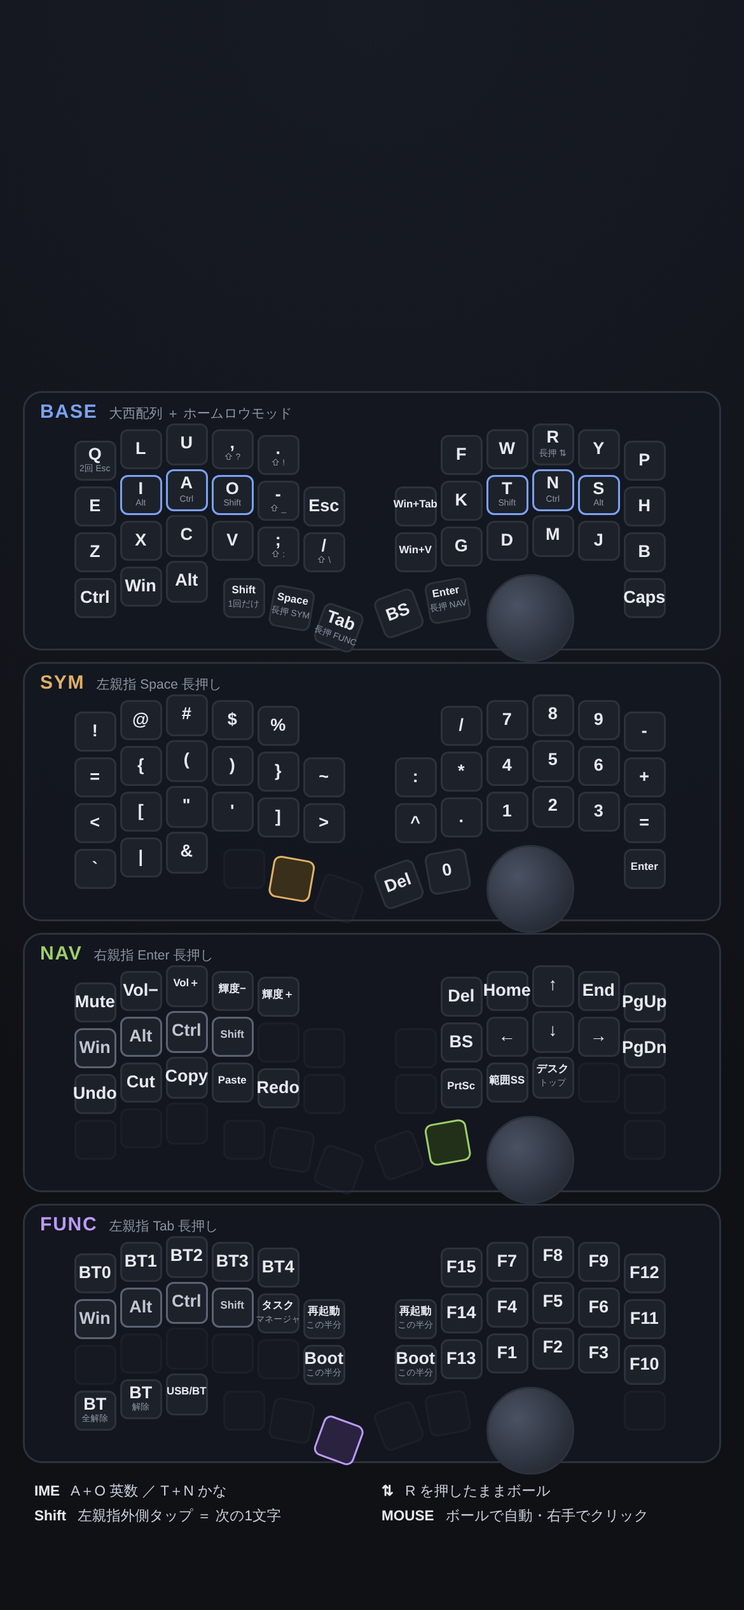
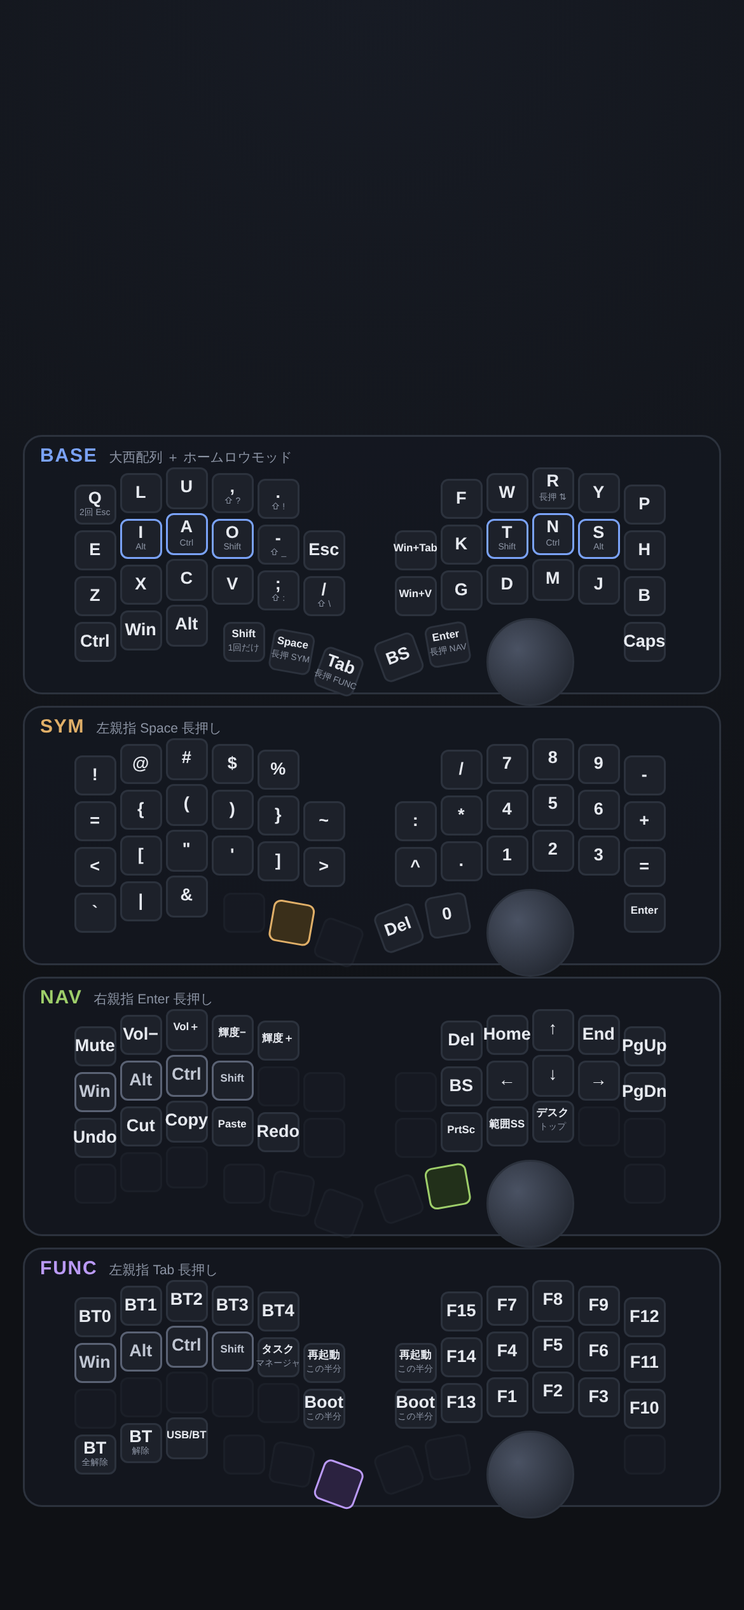
iPhone wallpaper: clear the lock-screen clock, drop the memo
Claude-Session: https://claude.ai/code/session_016pNXExXxrw2Y83Buhtq3ji

diff --git a/wallpaper/roBa-wallpaper-iphone12.html b/wallpaper/roBa-wallpaper-iphone12.html
@@ -1,7 +1,7 @@
 <!doctype html><html><head><meta charset="utf-8"><style>
 :root{--bg:#0f1115;--key:#1d212a;--line:#2c323d;--txt:#e6e9ef;--sub:#8b93a3;--base:#7aa2f7;--sym:#e0af68;--nav:#9ece6a;--func:#bb9af7;--mouse:#f7768e}
 *{box-sizing:border-box;margin:0} html{background:var(--bg)}
-body{width:390px;height:844px;overflow:hidden;background:radial-gradient(circle at 50% 0%,#171b24,var(--bg) 70%);color:var(--txt);font-family:"Noto Sans CJK JP","Noto Sans JP",sans-serif;display:flex;flex-direction:column;gap:6px;padding:205px 12px 34px}
+body{width:390px;height:844px;overflow:hidden;background:radial-gradient(circle at 50% 0%,#171b24,var(--bg) 70%);color:var(--txt);font-family:"Noto Sans CJK JP","Noto Sans JP",sans-serif;display:flex;flex-direction:column;gap:6px;padding:228px 12px 30px}
 .layer{background:#141820cc;border:1px solid var(--line);border-radius:10px;padding:5px 8px 4px;flex:none;display:flex;flex-direction:column}
 .layer .kb{margin:auto}
 h2{font-size:10px;letter-spacing:.06em;display:flex;align-items:baseline;gap:6px}
@@ -18,9 +18,4 @@ h2 small{font-size:7px;color:var(--sub);letter-spacing:0;font-weight:400}
 .ball{position:absolute;width:45.599999999999994px;height:45.599999999999994px;border-radius:50%;background:radial-gradient(circle at 35% 35%,#4a5263,#1b1f27);border:1px solid var(--line)}
 .legend{display:grid;grid-template-columns:1fr 1fr;gap:3px 10px;font-size:7.5px;color:#c9cfdb;padding:4px 6px}
 .legend b{color:var(--txt);margin-right:4px}
-</style></head><body><section class="layer base"><h2>BASE<small>大西配列 ＋ ホームロウモッド</small></h2><div class="kb"><div class="key" style="left:0.0px;top:8.879999999999999px;transform:rotate(0deg)"><span class="m">Q</span><span class="s">2回 Esc</span></div><div class="key" style="left:24.0px;top:2.88px;transform:rotate(0deg)"><span class="m">L</span></div><div class="key" style="left:48.0px;top:0.0px;transform:rotate(0deg)"><span class="m">U</span></div><div class="key" style="left:72.0px;top:2.88px;transform:rotate(0deg)"><span class="m">,</span><span class="s">⇧ ?</span></div><div class="key" style="left:96.0px;top:5.76px;transform:rotate(0deg)"><span class="m">.</span><span class="s">⇧ !</span></div><div class="key" style="left:192.0px;top:5.76px;transform:rotate(0deg)"><span class="m">F</span></div><div class="key" style="left:216.0px;top:2.88px;transform:rotate(0deg)"><span class="m">W</span></div><div class="key" style="left:240.0px;top:0.0px;transform:rotate(0deg)"><span class="m">R</span><span class="s">長押 ⇅</span></div><div class="key" style="left:264.0px;top:2.88px;transform:rotate(0deg)"><span class="m">Y</span></div><div class="key" style="left:288.0px;top:8.879999999999999px;transform:rotate(0deg)"><span class="m">P</span></div><div class="key" style="left:0.0px;top:32.88px;transform:rotate(0deg)"><span class="m">E</span></div><div class="key hrm" style="left:24.0px;top:26.880000000000003px;transform:rotate(0deg)"><span class="m">I</span><span class="s">Alt</span></div><div class="key hrm" style="left:48.0px;top:24.0px;transform:rotate(0deg)"><span class="m">A</span><span class="s">Ctrl</span></div><div class="key hrm" style="left:72.0px;top:26.880000000000003px;transform:rotate(0deg)"><span class="m">O</span><span class="s">Shift</span></div><div class="key" style="left:96.0px;top:29.759999999999998px;transform:rotate(0deg)"><span class="m">-</span><span class="s">⇧ _</span></div><div class="key" style="left:120.0px;top:32.88px;transform:rotate(0deg)"><span class="m">Esc</span></div><div class="key" style="left:168.0px;top:32.88px;transform:rotate(0deg)"><span class="m small">Win+Tab</span></div><div class="key" style="left:192.0px;top:29.759999999999998px;transform:rotate(0deg)"><span class="m">K</span></div><div class="key hrm" style="left:216.0px;top:26.880000000000003px;transform:rotate(0deg)"><span class="m">T</span><span class="s">Shift</span></div><div class="key hrm" style="left:240.0px;top:24.0px;transform:rotate(0deg)"><span class="m">N</span><span class="s">Ctrl</span></div><div class="key hrm" style="left:264.0px;top:26.880000000000003px;transform:rotate(0deg)"><span class="m">S</span><span class="s">Alt</span></div><div class="key" style="left:288.0px;top:32.88px;transform:rotate(0deg)"><span class="m">H</span></div><div class="key" style="left:0.0px;top:56.88px;transform:rotate(0deg)"><span class="m">Z</span></div><div class="key" style="left:24.0px;top:50.88px;transform:rotate(0deg)"><span class="m">X</span></div><div class="key" style="left:48.0px;top:48.0px;transform:rotate(0deg)"><span class="m">C</span></div><div class="key" style="left:72.0px;top:50.88px;transform:rotate(0deg)"><span class="m">V</span></div><div class="key" style="left:96.0px;top:53.760000000000005px;transform:rotate(0deg)"><span class="m">;</span><span class="s">⇧ :</span></div><div class="key" style="left:120.0px;top:56.88px;transform:rotate(0deg)"><span class="m">/</span><span class="s">⇧ \</span></div><div class="key" style="left:168.0px;top:56.88px;transform:rotate(0deg)"><span class="m small">Win+V</span></div><div class="key" style="left:192.0px;top:53.760000000000005px;transform:rotate(0deg)"><span class="m">G</span></div><div class="key" style="left:216.0px;top:50.88px;transform:rotate(0deg)"><span class="m">D</span></div><div class="key" style="left:240.0px;top:48.0px;transform:rotate(0deg)"><span class="m">M</span></div><div class="key" style="left:264.0px;top:50.88px;transform:rotate(0deg)"><span class="m">J</span></div><div class="key" style="left:288.0px;top:56.88px;transform:rotate(0deg)"><span class="m">B</span></div><div class="key" style="left:0.0px;top:80.88px;transform:rotate(0deg)"><span class="m">Ctrl</span></div><div class="key" style="left:24.0px;top:74.88px;transform:rotate(0deg)"><span class="m">Win</span></div><div class="key" style="left:48.0px;top:72.0px;transform:rotate(0deg)"><span class="m">Alt</span></div><div class="key" style="left:78.0px;top:80.88px;transform:rotate(0deg)"><span class="m small">Shift</span><span class="s">1回だけ</span></div><div class="key" style="left:104.88px;top:84.0px;transform:rotate(10deg)"><span class="m small">Space</span><span class="s">長押 SYM</span></div><div class="key" style="left:132.0px;top:92.88px;transform:rotate(20deg)"><span class="m">Tab</span><span class="s">長押 FUNC</span></div><div class="key" style="left:156.0px;top:92.88px;transform:rotate(-20deg)"><span class="m">BS</span></div><div class="key" style="left:183.12px;top:84.0px;transform:rotate(-10deg)"><span class="m small">Enter</span><span class="s">長押 NAV</span></div><div class="key" style="left:288.0px;top:80.88px;transform:rotate(0deg)"><span class="m">Caps</span></div><div class="ball" style="left:216.0px;top:79.19999999999999px"></div></div></section><section class="layer sym"><h2>SYM<small>左親指 Space 長押し</small></h2><div class="kb"><div class="key" style="left:0.0px;top:8.879999999999999px;transform:rotate(0deg)"><span class="m">!</span></div><div class="key" style="left:24.0px;top:2.88px;transform:rotate(0deg)"><span class="m">@</span></div><div class="key" style="left:48.0px;top:0.0px;transform:rotate(0deg)"><span class="m">#</span></div><div class="key" style="left:72.0px;top:2.88px;transform:rotate(0deg)"><span class="m">$</span></div><div class="key" style="left:96.0px;top:5.76px;transform:rotate(0deg)"><span class="m">%</span></div><div class="key" style="left:192.0px;top:5.76px;transform:rotate(0deg)"><span class="m">/</span></div><div class="key" style="left:216.0px;top:2.88px;transform:rotate(0deg)"><span class="m">7</span></div><div class="key" style="left:240.0px;top:0.0px;transform:rotate(0deg)"><span class="m">8</span></div><div class="key" style="left:264.0px;top:2.88px;transform:rotate(0deg)"><span class="m">9</span></div><div class="key" style="left:288.0px;top:8.879999999999999px;transform:rotate(0deg)"><span class="m">-</span></div><div class="key" style="left:0.0px;top:32.88px;transform:rotate(0deg)"><span class="m">=</span></div><div class="key" style="left:24.0px;top:26.880000000000003px;transform:rotate(0deg)"><span class="m">{</span></div><div class="key" style="left:48.0px;top:24.0px;transform:rotate(0deg)"><span class="m">(</span></div><div class="key" style="left:72.0px;top:26.880000000000003px;transform:rotate(0deg)"><span class="m">)</span></div><div class="key" style="left:96.0px;top:29.759999999999998px;transform:rotate(0deg)"><span class="m">}</span></div><div class="key" style="left:120.0px;top:32.88px;transform:rotate(0deg)"><span class="m">~</span></div><div class="key" style="left:168.0px;top:32.88px;transform:rotate(0deg)"><span class="m">:</span></div><div class="key" style="left:192.0px;top:29.759999999999998px;transform:rotate(0deg)"><span class="m">*</span></div><div class="key" style="left:216.0px;top:26.880000000000003px;transform:rotate(0deg)"><span class="m">4</span></div><div class="key" style="left:240.0px;top:24.0px;transform:rotate(0deg)"><span class="m">5</span></div><div class="key" style="left:264.0px;top:26.880000000000003px;transform:rotate(0deg)"><span class="m">6</span></div><div class="key" style="left:288.0px;top:32.88px;transform:rotate(0deg)"><span class="m">+</span></div><div class="key" style="left:0.0px;top:56.88px;transform:rotate(0deg)"><span class="m">&lt;</span></div><div class="key" style="left:24.0px;top:50.88px;transform:rotate(0deg)"><span class="m">[</span></div><div class="key" style="left:48.0px;top:48.0px;transform:rotate(0deg)"><span class="m">&quot;</span></div><div class="key" style="left:72.0px;top:50.88px;transform:rotate(0deg)"><span class="m">&#x27;</span></div><div class="key" style="left:96.0px;top:53.760000000000005px;transform:rotate(0deg)"><span class="m">]</span></div><div class="key" style="left:120.0px;top:56.88px;transform:rotate(0deg)"><span class="m">&gt;</span></div><div class="key" style="left:168.0px;top:56.88px;transform:rotate(0deg)"><span class="m">^</span></div><div class="key" style="left:192.0px;top:53.760000000000005px;transform:rotate(0deg)"><span class="m">.</span></div><div class="key" style="left:216.0px;top:50.88px;transform:rotate(0deg)"><span class="m">1</span></div><div class="key" style="left:240.0px;top:48.0px;transform:rotate(0deg)"><span class="m">2</span></div><div class="key" style="left:264.0px;top:50.88px;transform:rotate(0deg)"><span class="m">3</span></div><div class="key" style="left:288.0px;top:56.88px;transform:rotate(0deg)"><span class="m">=</span></div><div class="key" style="left:0.0px;top:80.88px;transform:rotate(0deg)"><span class="m">`</span></div><div class="key" style="left:24.0px;top:74.88px;transform:rotate(0deg)"><span class="m">|</span></div><div class="key" style="left:48.0px;top:72.0px;transform:rotate(0deg)"><span class="m">&amp;</span></div><div class="key empty" style="left:78.0px;top:80.88px;transform:rotate(0deg)"><span class="m"></span></div><div class="key held" style="left:104.88px;top:84.0px;transform:rotate(10deg)"><span class="m"></span></div><div class="key empty" style="left:132.0px;top:92.88px;transform:rotate(20deg)"><span class="m"></span></div><div class="key" style="left:156.0px;top:92.88px;transform:rotate(-20deg)"><span class="m">Del</span></div><div class="key" style="left:183.12px;top:84.0px;transform:rotate(-10deg)"><span class="m">0</span></div><div class="key" style="left:288.0px;top:80.88px;transform:rotate(0deg)"><span class="m small">Enter</span></div><div class="ball" style="left:216.0px;top:79.19999999999999px"></div></div></section><section class="layer nav"><h2>NAV<small>右親指 Enter 長押し</small></h2><div class="kb"><div class="key" style="left:0.0px;top:8.879999999999999px;transform:rotate(0deg)"><span class="m">Mute</span></div><div class="key" style="left:24.0px;top:2.88px;transform:rotate(0deg)"><span class="m">Vol−</span></div><div class="key" style="left:48.0px;top:0.0px;transform:rotate(0deg)"><span class="m small">Vol＋</span></div><div class="key" style="left:72.0px;top:2.88px;transform:rotate(0deg)"><span class="m small">輝度−</span></div><div class="key" style="left:96.0px;top:5.76px;transform:rotate(0deg)"><span class="m small">輝度＋</span></div><div class="key" style="left:192.0px;top:5.76px;transform:rotate(0deg)"><span class="m">Del</span></div><div class="key" style="left:216.0px;top:2.88px;transform:rotate(0deg)"><span class="m">Home</span></div><div class="key" style="left:240.0px;top:0.0px;transform:rotate(0deg)"><span class="m">↑</span></div><div class="key" style="left:264.0px;top:2.88px;transform:rotate(0deg)"><span class="m">End</span></div><div class="key" style="left:288.0px;top:8.879999999999999px;transform:rotate(0deg)"><span class="m">PgUp</span></div><div class="key mod" style="left:0.0px;top:32.88px;transform:rotate(0deg)"><span class="m">Win</span></div><div class="key mod" style="left:24.0px;top:26.880000000000003px;transform:rotate(0deg)"><span class="m">Alt</span></div><div class="key mod" style="left:48.0px;top:24.0px;transform:rotate(0deg)"><span class="m">Ctrl</span></div><div class="key mod" style="left:72.0px;top:26.880000000000003px;transform:rotate(0deg)"><span class="m small">Shift</span></div><div class="key empty" style="left:96.0px;top:29.759999999999998px;transform:rotate(0deg)"><span class="m"></span></div><div class="key empty" style="left:120.0px;top:32.88px;transform:rotate(0deg)"><span class="m"></span></div><div class="key empty" style="left:168.0px;top:32.88px;transform:rotate(0deg)"><span class="m"></span></div><div class="key" style="left:192.0px;top:29.759999999999998px;transform:rotate(0deg)"><span class="m">BS</span></div><div class="key" style="left:216.0px;top:26.880000000000003px;transform:rotate(0deg)"><span class="m">←</span></div><div class="key" style="left:240.0px;top:24.0px;transform:rotate(0deg)"><span class="m">↓</span></div><div class="key" style="left:264.0px;top:26.880000000000003px;transform:rotate(0deg)"><span class="m">→</span></div><div class="key" style="left:288.0px;top:32.88px;transform:rotate(0deg)"><span class="m">PgDn</span></div><div class="key" style="left:0.0px;top:56.88px;transform:rotate(0deg)"><span class="m">Undo</span></div><div class="key" style="left:24.0px;top:50.88px;transform:rotate(0deg)"><span class="m">Cut</span></div><div class="key" style="left:48.0px;top:48.0px;transform:rotate(0deg)"><span class="m">Copy</span></div><div class="key" style="left:72.0px;top:50.88px;transform:rotate(0deg)"><span class="m small">Paste</span></div><div class="key" style="left:96.0px;top:53.760000000000005px;transform:rotate(0deg)"><span class="m">Redo</span></div><div class="key empty" style="left:120.0px;top:56.88px;transform:rotate(0deg)"><span class="m"></span></div><div class="key empty" style="left:168.0px;top:56.88px;transform:rotate(0deg)"><span class="m"></span></div><div class="key" style="left:192.0px;top:53.760000000000005px;transform:rotate(0deg)"><span class="m small">PrtSc</span></div><div class="key" style="left:216.0px;top:50.88px;transform:rotate(0deg)"><span class="m small">範囲SS</span></div><div class="key" style="left:240.0px;top:48.0px;transform:rotate(0deg)"><span class="m small">デスク</span><span class="s">トップ</span></div><div class="key empty" style="left:264.0px;top:50.88px;transform:rotate(0deg)"><span class="m"></span></div><div class="key empty" style="left:288.0px;top:56.88px;transform:rotate(0deg)"><span class="m"></span></div><div class="key empty" style="left:0.0px;top:80.88px;transform:rotate(0deg)"><span class="m"></span></div><div class="key empty" style="left:24.0px;top:74.88px;transform:rotate(0deg)"><span class="m"></span></div><div class="key empty" style="left:48.0px;top:72.0px;transform:rotate(0deg)"><span class="m"></span></div><div class="key empty" style="left:78.0px;top:80.88px;transform:rotate(0deg)"><span class="m"></span></div><div class="key empty" style="left:104.88px;top:84.0px;transform:rotate(10deg)"><span class="m"></span></div><div class="key empty" style="left:132.0px;top:92.88px;transform:rotate(20deg)"><span class="m"></span></div><div class="key empty" style="left:156.0px;top:92.88px;transform:rotate(-20deg)"><span class="m"></span></div><div class="key held" style="left:183.12px;top:84.0px;transform:rotate(-10deg)"><span class="m"></span></div><div class="key empty" style="left:288.0px;top:80.88px;transform:rotate(0deg)"><span class="m"></span></div><div class="ball" style="left:216.0px;top:79.19999999999999px"></div></div></section><section class="layer func"><h2>FUNC<small>左親指 Tab 長押し</small></h2><div class="kb"><div class="key" style="left:0.0px;top:8.879999999999999px;transform:rotate(0deg)"><span class="m">BT0</span></div><div class="key" style="left:24.0px;top:2.88px;transform:rotate(0deg)"><span class="m">BT1</span></div><div class="key" style="left:48.0px;top:0.0px;transform:rotate(0deg)"><span class="m">BT2</span></div><div class="key" style="left:72.0px;top:2.88px;transform:rotate(0deg)"><span class="m">BT3</span></div><div class="key" style="left:96.0px;top:5.76px;transform:rotate(0deg)"><span class="m">BT4</span></div><div class="key" style="left:192.0px;top:5.76px;transform:rotate(0deg)"><span class="m">F15</span></div><div class="key" style="left:216.0px;top:2.88px;transform:rotate(0deg)"><span class="m">F7</span></div><div class="key" style="left:240.0px;top:0.0px;transform:rotate(0deg)"><span class="m">F8</span></div><div class="key" style="left:264.0px;top:2.88px;transform:rotate(0deg)"><span class="m">F9</span></div><div class="key" style="left:288.0px;top:8.879999999999999px;transform:rotate(0deg)"><span class="m">F12</span></div><div class="key mod" style="left:0.0px;top:32.88px;transform:rotate(0deg)"><span class="m">Win</span></div><div class="key mod" style="left:24.0px;top:26.880000000000003px;transform:rotate(0deg)"><span class="m">Alt</span></div><div class="key mod" style="left:48.0px;top:24.0px;transform:rotate(0deg)"><span class="m">Ctrl</span></div><div class="key mod" style="left:72.0px;top:26.880000000000003px;transform:rotate(0deg)"><span class="m small">Shift</span></div><div class="key" style="left:96.0px;top:29.759999999999998px;transform:rotate(0deg)"><span class="m small">タスク</span><span class="s">マネージャ</span></div><div class="key" style="left:120.0px;top:32.88px;transform:rotate(0deg)"><span class="m small">再起動</span><span class="s">この半分</span></div><div class="key" style="left:168.0px;top:32.88px;transform:rotate(0deg)"><span class="m small">再起動</span><span class="s">この半分</span></div><div class="key" style="left:192.0px;top:29.759999999999998px;transform:rotate(0deg)"><span class="m">F14</span></div><div class="key" style="left:216.0px;top:26.880000000000003px;transform:rotate(0deg)"><span class="m">F4</span></div><div class="key" style="left:240.0px;top:24.0px;transform:rotate(0deg)"><span class="m">F5</span></div><div class="key" style="left:264.0px;top:26.880000000000003px;transform:rotate(0deg)"><span class="m">F6</span></div><div class="key" style="left:288.0px;top:32.88px;transform:rotate(0deg)"><span class="m">F11</span></div><div class="key empty" style="left:0.0px;top:56.88px;transform:rotate(0deg)"><span class="m"></span></div><div class="key empty" style="left:24.0px;top:50.88px;transform:rotate(0deg)"><span class="m"></span></div><div class="key empty" style="left:48.0px;top:48.0px;transform:rotate(0deg)"><span class="m"></span></div><div class="key empty" style="left:72.0px;top:50.88px;transform:rotate(0deg)"><span class="m"></span></div><div class="key empty" style="left:96.0px;top:53.760000000000005px;transform:rotate(0deg)"><span class="m"></span></div><div class="key" style="left:120.0px;top:56.88px;transform:rotate(0deg)"><span class="m">Boot</span><span class="s">この半分</span></div><div class="key" style="left:168.0px;top:56.88px;transform:rotate(0deg)"><span class="m">Boot</span><span class="s">この半分</span></div><div class="key" style="left:192.0px;top:53.760000000000005px;transform:rotate(0deg)"><span class="m">F13</span></div><div class="key" style="left:216.0px;top:50.88px;transform:rotate(0deg)"><span class="m">F1</span></div><div class="key" style="left:240.0px;top:48.0px;transform:rotate(0deg)"><span class="m">F2</span></div><div class="key" style="left:264.0px;top:50.88px;transform:rotate(0deg)"><span class="m">F3</span></div><div class="key" style="left:288.0px;top:56.88px;transform:rotate(0deg)"><span class="m">F10</span></div><div class="key" style="left:0.0px;top:80.88px;transform:rotate(0deg)"><span class="m">BT</span><span class="s">全解除</span></div><div class="key" style="left:24.0px;top:74.88px;transform:rotate(0deg)"><span class="m">BT</span><span class="s">解除</span></div><div class="key" style="left:48.0px;top:72.0px;transform:rotate(0deg)"><span class="m small">USB/BT</span></div><div class="key empty" style="left:78.0px;top:80.88px;transform:rotate(0deg)"><span class="m"></span></div><div class="key empty" style="left:104.88px;top:84.0px;transform:rotate(10deg)"><span class="m"></span></div><div class="key held" style="left:132.0px;top:92.88px;transform:rotate(20deg)"><span class="m"></span></div><div class="key empty" style="left:156.0px;top:92.88px;transform:rotate(-20deg)"><span class="m"></span></div><div class="key empty" style="left:183.12px;top:84.0px;transform:rotate(-10deg)"><span class="m"></span></div><div class="key empty" style="left:288.0px;top:80.88px;transform:rotate(0deg)"><span class="m"></span></div><div class="ball" style="left:216.0px;top:79.19999999999999px"></div></div></section><section class="legend">
-<div><b>IME</b> A＋O 英数 ／ T＋N かな</div>
-<div><b>⇅</b> R を押したままボール</div>
-<div><b>Shift</b> 左親指外側タップ ＝ 次の1文字</div>
-<div><b>MOUSE</b> ボールで自動・右手でクリック</div>
-</section></body></html>
+</style></head><body><section class="layer base"><h2>BASE<small>大西配列 ＋ ホームロウモッド</small></h2><div class="kb"><div class="key" style="left:0.0px;top:8.879999999999999px;transform:rotate(0deg)"><span class="m">Q</span><span class="s">2回 Esc</span></div><div class="key" style="left:24.0px;top:2.88px;transform:rotate(0deg)"><span class="m">L</span></div><div class="key" style="left:48.0px;top:0.0px;transform:rotate(0deg)"><span class="m">U</span></div><div class="key" style="left:72.0px;top:2.88px;transform:rotate(0deg)"><span class="m">,</span><span class="s">⇧ ?</span></div><div class="key" style="left:96.0px;top:5.76px;transform:rotate(0deg)"><span class="m">.</span><span class="s">⇧ !</span></div><div class="key" style="left:192.0px;top:5.76px;transform:rotate(0deg)"><span class="m">F</span></div><div class="key" style="left:216.0px;top:2.88px;transform:rotate(0deg)"><span class="m">W</span></div><div class="key" style="left:240.0px;top:0.0px;transform:rotate(0deg)"><span class="m">R</span><span class="s">長押 ⇅</span></div><div class="key" style="left:264.0px;top:2.88px;transform:rotate(0deg)"><span class="m">Y</span></div><div class="key" style="left:288.0px;top:8.879999999999999px;transform:rotate(0deg)"><span class="m">P</span></div><div class="key" style="left:0.0px;top:32.88px;transform:rotate(0deg)"><span class="m">E</span></div><div class="key hrm" style="left:24.0px;top:26.880000000000003px;transform:rotate(0deg)"><span class="m">I</span><span class="s">Alt</span></div><div class="key hrm" style="left:48.0px;top:24.0px;transform:rotate(0deg)"><span class="m">A</span><span class="s">Ctrl</span></div><div class="key hrm" style="left:72.0px;top:26.880000000000003px;transform:rotate(0deg)"><span class="m">O</span><span class="s">Shift</span></div><div class="key" style="left:96.0px;top:29.759999999999998px;transform:rotate(0deg)"><span class="m">-</span><span class="s">⇧ _</span></div><div class="key" style="left:120.0px;top:32.88px;transform:rotate(0deg)"><span class="m">Esc</span></div><div class="key" style="left:168.0px;top:32.88px;transform:rotate(0deg)"><span class="m small">Win+Tab</span></div><div class="key" style="left:192.0px;top:29.759999999999998px;transform:rotate(0deg)"><span class="m">K</span></div><div class="key hrm" style="left:216.0px;top:26.880000000000003px;transform:rotate(0deg)"><span class="m">T</span><span class="s">Shift</span></div><div class="key hrm" style="left:240.0px;top:24.0px;transform:rotate(0deg)"><span class="m">N</span><span class="s">Ctrl</span></div><div class="key hrm" style="left:264.0px;top:26.880000000000003px;transform:rotate(0deg)"><span class="m">S</span><span class="s">Alt</span></div><div class="key" style="left:288.0px;top:32.88px;transform:rotate(0deg)"><span class="m">H</span></div><div class="key" style="left:0.0px;top:56.88px;transform:rotate(0deg)"><span class="m">Z</span></div><div class="key" style="left:24.0px;top:50.88px;transform:rotate(0deg)"><span class="m">X</span></div><div class="key" style="left:48.0px;top:48.0px;transform:rotate(0deg)"><span class="m">C</span></div><div class="key" style="left:72.0px;top:50.88px;transform:rotate(0deg)"><span class="m">V</span></div><div class="key" style="left:96.0px;top:53.760000000000005px;transform:rotate(0deg)"><span class="m">;</span><span class="s">⇧ :</span></div><div class="key" style="left:120.0px;top:56.88px;transform:rotate(0deg)"><span class="m">/</span><span class="s">⇧ \</span></div><div class="key" style="left:168.0px;top:56.88px;transform:rotate(0deg)"><span class="m small">Win+V</span></div><div class="key" style="left:192.0px;top:53.760000000000005px;transform:rotate(0deg)"><span class="m">G</span></div><div class="key" style="left:216.0px;top:50.88px;transform:rotate(0deg)"><span class="m">D</span></div><div class="key" style="left:240.0px;top:48.0px;transform:rotate(0deg)"><span class="m">M</span></div><div class="key" style="left:264.0px;top:50.88px;transform:rotate(0deg)"><span class="m">J</span></div><div class="key" style="left:288.0px;top:56.88px;transform:rotate(0deg)"><span class="m">B</span></div><div class="key" style="left:0.0px;top:80.88px;transform:rotate(0deg)"><span class="m">Ctrl</span></div><div class="key" style="left:24.0px;top:74.88px;transform:rotate(0deg)"><span class="m">Win</span></div><div class="key" style="left:48.0px;top:72.0px;transform:rotate(0deg)"><span class="m">Alt</span></div><div class="key" style="left:78.0px;top:80.88px;transform:rotate(0deg)"><span class="m small">Shift</span><span class="s">1回だけ</span></div><div class="key" style="left:104.88px;top:84.0px;transform:rotate(10deg)"><span class="m small">Space</span><span class="s">長押 SYM</span></div><div class="key" style="left:132.0px;top:92.88px;transform:rotate(20deg)"><span class="m">Tab</span><span class="s">長押 FUNC</span></div><div class="key" style="left:156.0px;top:92.88px;transform:rotate(-20deg)"><span class="m">BS</span></div><div class="key" style="left:183.12px;top:84.0px;transform:rotate(-10deg)"><span class="m small">Enter</span><span class="s">長押 NAV</span></div><div class="key" style="left:288.0px;top:80.88px;transform:rotate(0deg)"><span class="m">Caps</span></div><div class="ball" style="left:216.0px;top:79.19999999999999px"></div></div></section><section class="layer sym"><h2>SYM<small>左親指 Space 長押し</small></h2><div class="kb"><div class="key" style="left:0.0px;top:8.879999999999999px;transform:rotate(0deg)"><span class="m">!</span></div><div class="key" style="left:24.0px;top:2.88px;transform:rotate(0deg)"><span class="m">@</span></div><div class="key" style="left:48.0px;top:0.0px;transform:rotate(0deg)"><span class="m">#</span></div><div class="key" style="left:72.0px;top:2.88px;transform:rotate(0deg)"><span class="m">$</span></div><div class="key" style="left:96.0px;top:5.76px;transform:rotate(0deg)"><span class="m">%</span></div><div class="key" style="left:192.0px;top:5.76px;transform:rotate(0deg)"><span class="m">/</span></div><div class="key" style="left:216.0px;top:2.88px;transform:rotate(0deg)"><span class="m">7</span></div><div class="key" style="left:240.0px;top:0.0px;transform:rotate(0deg)"><span class="m">8</span></div><div class="key" style="left:264.0px;top:2.88px;transform:rotate(0deg)"><span class="m">9</span></div><div class="key" style="left:288.0px;top:8.879999999999999px;transform:rotate(0deg)"><span class="m">-</span></div><div class="key" style="left:0.0px;top:32.88px;transform:rotate(0deg)"><span class="m">=</span></div><div class="key" style="left:24.0px;top:26.880000000000003px;transform:rotate(0deg)"><span class="m">{</span></div><div class="key" style="left:48.0px;top:24.0px;transform:rotate(0deg)"><span class="m">(</span></div><div class="key" style="left:72.0px;top:26.880000000000003px;transform:rotate(0deg)"><span class="m">)</span></div><div class="key" style="left:96.0px;top:29.759999999999998px;transform:rotate(0deg)"><span class="m">}</span></div><div class="key" style="left:120.0px;top:32.88px;transform:rotate(0deg)"><span class="m">~</span></div><div class="key" style="left:168.0px;top:32.88px;transform:rotate(0deg)"><span class="m">:</span></div><div class="key" style="left:192.0px;top:29.759999999999998px;transform:rotate(0deg)"><span class="m">*</span></div><div class="key" style="left:216.0px;top:26.880000000000003px;transform:rotate(0deg)"><span class="m">4</span></div><div class="key" style="left:240.0px;top:24.0px;transform:rotate(0deg)"><span class="m">5</span></div><div class="key" style="left:264.0px;top:26.880000000000003px;transform:rotate(0deg)"><span class="m">6</span></div><div class="key" style="left:288.0px;top:32.88px;transform:rotate(0deg)"><span class="m">+</span></div><div class="key" style="left:0.0px;top:56.88px;transform:rotate(0deg)"><span class="m">&lt;</span></div><div class="key" style="left:24.0px;top:50.88px;transform:rotate(0deg)"><span class="m">[</span></div><div class="key" style="left:48.0px;top:48.0px;transform:rotate(0deg)"><span class="m">&quot;</span></div><div class="key" style="left:72.0px;top:50.88px;transform:rotate(0deg)"><span class="m">&#x27;</span></div><div class="key" style="left:96.0px;top:53.760000000000005px;transform:rotate(0deg)"><span class="m">]</span></div><div class="key" style="left:120.0px;top:56.88px;transform:rotate(0deg)"><span class="m">&gt;</span></div><div class="key" style="left:168.0px;top:56.88px;transform:rotate(0deg)"><span class="m">^</span></div><div class="key" style="left:192.0px;top:53.760000000000005px;transform:rotate(0deg)"><span class="m">.</span></div><div class="key" style="left:216.0px;top:50.88px;transform:rotate(0deg)"><span class="m">1</span></div><div class="key" style="left:240.0px;top:48.0px;transform:rotate(0deg)"><span class="m">2</span></div><div class="key" style="left:264.0px;top:50.88px;transform:rotate(0deg)"><span class="m">3</span></div><div class="key" style="left:288.0px;top:56.88px;transform:rotate(0deg)"><span class="m">=</span></div><div class="key" style="left:0.0px;top:80.88px;transform:rotate(0deg)"><span class="m">`</span></div><div class="key" style="left:24.0px;top:74.88px;transform:rotate(0deg)"><span class="m">|</span></div><div class="key" style="left:48.0px;top:72.0px;transform:rotate(0deg)"><span class="m">&amp;</span></div><div class="key empty" style="left:78.0px;top:80.88px;transform:rotate(0deg)"><span class="m"></span></div><div class="key held" style="left:104.88px;top:84.0px;transform:rotate(10deg)"><span class="m"></span></div><div class="key empty" style="left:132.0px;top:92.88px;transform:rotate(20deg)"><span class="m"></span></div><div class="key" style="left:156.0px;top:92.88px;transform:rotate(-20deg)"><span class="m">Del</span></div><div class="key" style="left:183.12px;top:84.0px;transform:rotate(-10deg)"><span class="m">0</span></div><div class="key" style="left:288.0px;top:80.88px;transform:rotate(0deg)"><span class="m small">Enter</span></div><div class="ball" style="left:216.0px;top:79.19999999999999px"></div></div></section><section class="layer nav"><h2>NAV<small>右親指 Enter 長押し</small></h2><div class="kb"><div class="key" style="left:0.0px;top:8.879999999999999px;transform:rotate(0deg)"><span class="m">Mute</span></div><div class="key" style="left:24.0px;top:2.88px;transform:rotate(0deg)"><span class="m">Vol−</span></div><div class="key" style="left:48.0px;top:0.0px;transform:rotate(0deg)"><span class="m small">Vol＋</span></div><div class="key" style="left:72.0px;top:2.88px;transform:rotate(0deg)"><span class="m small">輝度−</span></div><div class="key" style="left:96.0px;top:5.76px;transform:rotate(0deg)"><span class="m small">輝度＋</span></div><div class="key" style="left:192.0px;top:5.76px;transform:rotate(0deg)"><span class="m">Del</span></div><div class="key" style="left:216.0px;top:2.88px;transform:rotate(0deg)"><span class="m">Home</span></div><div class="key" style="left:240.0px;top:0.0px;transform:rotate(0deg)"><span class="m">↑</span></div><div class="key" style="left:264.0px;top:2.88px;transform:rotate(0deg)"><span class="m">End</span></div><div class="key" style="left:288.0px;top:8.879999999999999px;transform:rotate(0deg)"><span class="m">PgUp</span></div><div class="key mod" style="left:0.0px;top:32.88px;transform:rotate(0deg)"><span class="m">Win</span></div><div class="key mod" style="left:24.0px;top:26.880000000000003px;transform:rotate(0deg)"><span class="m">Alt</span></div><div class="key mod" style="left:48.0px;top:24.0px;transform:rotate(0deg)"><span class="m">Ctrl</span></div><div class="key mod" style="left:72.0px;top:26.880000000000003px;transform:rotate(0deg)"><span class="m small">Shift</span></div><div class="key empty" style="left:96.0px;top:29.759999999999998px;transform:rotate(0deg)"><span class="m"></span></div><div class="key empty" style="left:120.0px;top:32.88px;transform:rotate(0deg)"><span class="m"></span></div><div class="key empty" style="left:168.0px;top:32.88px;transform:rotate(0deg)"><span class="m"></span></div><div class="key" style="left:192.0px;top:29.759999999999998px;transform:rotate(0deg)"><span class="m">BS</span></div><div class="key" style="left:216.0px;top:26.880000000000003px;transform:rotate(0deg)"><span class="m">←</span></div><div class="key" style="left:240.0px;top:24.0px;transform:rotate(0deg)"><span class="m">↓</span></div><div class="key" style="left:264.0px;top:26.880000000000003px;transform:rotate(0deg)"><span class="m">→</span></div><div class="key" style="left:288.0px;top:32.88px;transform:rotate(0deg)"><span class="m">PgDn</span></div><div class="key" style="left:0.0px;top:56.88px;transform:rotate(0deg)"><span class="m">Undo</span></div><div class="key" style="left:24.0px;top:50.88px;transform:rotate(0deg)"><span class="m">Cut</span></div><div class="key" style="left:48.0px;top:48.0px;transform:rotate(0deg)"><span class="m">Copy</span></div><div class="key" style="left:72.0px;top:50.88px;transform:rotate(0deg)"><span class="m small">Paste</span></div><div class="key" style="left:96.0px;top:53.760000000000005px;transform:rotate(0deg)"><span class="m">Redo</span></div><div class="key empty" style="left:120.0px;top:56.88px;transform:rotate(0deg)"><span class="m"></span></div><div class="key empty" style="left:168.0px;top:56.88px;transform:rotate(0deg)"><span class="m"></span></div><div class="key" style="left:192.0px;top:53.760000000000005px;transform:rotate(0deg)"><span class="m small">PrtSc</span></div><div class="key" style="left:216.0px;top:50.88px;transform:rotate(0deg)"><span class="m small">範囲SS</span></div><div class="key" style="left:240.0px;top:48.0px;transform:rotate(0deg)"><span class="m small">デスク</span><span class="s">トップ</span></div><div class="key empty" style="left:264.0px;top:50.88px;transform:rotate(0deg)"><span class="m"></span></div><div class="key empty" style="left:288.0px;top:56.88px;transform:rotate(0deg)"><span class="m"></span></div><div class="key empty" style="left:0.0px;top:80.88px;transform:rotate(0deg)"><span class="m"></span></div><div class="key empty" style="left:24.0px;top:74.88px;transform:rotate(0deg)"><span class="m"></span></div><div class="key empty" style="left:48.0px;top:72.0px;transform:rotate(0deg)"><span class="m"></span></div><div class="key empty" style="left:78.0px;top:80.88px;transform:rotate(0deg)"><span class="m"></span></div><div class="key empty" style="left:104.88px;top:84.0px;transform:rotate(10deg)"><span class="m"></span></div><div class="key empty" style="left:132.0px;top:92.88px;transform:rotate(20deg)"><span class="m"></span></div><div class="key empty" style="left:156.0px;top:92.88px;transform:rotate(-20deg)"><span class="m"></span></div><div class="key held" style="left:183.12px;top:84.0px;transform:rotate(-10deg)"><span class="m"></span></div><div class="key empty" style="left:288.0px;top:80.88px;transform:rotate(0deg)"><span class="m"></span></div><div class="ball" style="left:216.0px;top:79.19999999999999px"></div></div></section><section class="layer func"><h2>FUNC<small>左親指 Tab 長押し</small></h2><div class="kb"><div class="key" style="left:0.0px;top:8.879999999999999px;transform:rotate(0deg)"><span class="m">BT0</span></div><div class="key" style="left:24.0px;top:2.88px;transform:rotate(0deg)"><span class="m">BT1</span></div><div class="key" style="left:48.0px;top:0.0px;transform:rotate(0deg)"><span class="m">BT2</span></div><div class="key" style="left:72.0px;top:2.88px;transform:rotate(0deg)"><span class="m">BT3</span></div><div class="key" style="left:96.0px;top:5.76px;transform:rotate(0deg)"><span class="m">BT4</span></div><div class="key" style="left:192.0px;top:5.76px;transform:rotate(0deg)"><span class="m">F15</span></div><div class="key" style="left:216.0px;top:2.88px;transform:rotate(0deg)"><span class="m">F7</span></div><div class="key" style="left:240.0px;top:0.0px;transform:rotate(0deg)"><span class="m">F8</span></div><div class="key" style="left:264.0px;top:2.88px;transform:rotate(0deg)"><span class="m">F9</span></div><div class="key" style="left:288.0px;top:8.879999999999999px;transform:rotate(0deg)"><span class="m">F12</span></div><div class="key mod" style="left:0.0px;top:32.88px;transform:rotate(0deg)"><span class="m">Win</span></div><div class="key mod" style="left:24.0px;top:26.880000000000003px;transform:rotate(0deg)"><span class="m">Alt</span></div><div class="key mod" style="left:48.0px;top:24.0px;transform:rotate(0deg)"><span class="m">Ctrl</span></div><div class="key mod" style="left:72.0px;top:26.880000000000003px;transform:rotate(0deg)"><span class="m small">Shift</span></div><div class="key" style="left:96.0px;top:29.759999999999998px;transform:rotate(0deg)"><span class="m small">タスク</span><span class="s">マネージャ</span></div><div class="key" style="left:120.0px;top:32.88px;transform:rotate(0deg)"><span class="m small">再起動</span><span class="s">この半分</span></div><div class="key" style="left:168.0px;top:32.88px;transform:rotate(0deg)"><span class="m small">再起動</span><span class="s">この半分</span></div><div class="key" style="left:192.0px;top:29.759999999999998px;transform:rotate(0deg)"><span class="m">F14</span></div><div class="key" style="left:216.0px;top:26.880000000000003px;transform:rotate(0deg)"><span class="m">F4</span></div><div class="key" style="left:240.0px;top:24.0px;transform:rotate(0deg)"><span class="m">F5</span></div><div class="key" style="left:264.0px;top:26.880000000000003px;transform:rotate(0deg)"><span class="m">F6</span></div><div class="key" style="left:288.0px;top:32.88px;transform:rotate(0deg)"><span class="m">F11</span></div><div class="key empty" style="left:0.0px;top:56.88px;transform:rotate(0deg)"><span class="m"></span></div><div class="key empty" style="left:24.0px;top:50.88px;transform:rotate(0deg)"><span class="m"></span></div><div class="key empty" style="left:48.0px;top:48.0px;transform:rotate(0deg)"><span class="m"></span></div><div class="key empty" style="left:72.0px;top:50.88px;transform:rotate(0deg)"><span class="m"></span></div><div class="key empty" style="left:96.0px;top:53.760000000000005px;transform:rotate(0deg)"><span class="m"></span></div><div class="key" style="left:120.0px;top:56.88px;transform:rotate(0deg)"><span class="m">Boot</span><span class="s">この半分</span></div><div class="key" style="left:168.0px;top:56.88px;transform:rotate(0deg)"><span class="m">Boot</span><span class="s">この半分</span></div><div class="key" style="left:192.0px;top:53.760000000000005px;transform:rotate(0deg)"><span class="m">F13</span></div><div class="key" style="left:216.0px;top:50.88px;transform:rotate(0deg)"><span class="m">F1</span></div><div class="key" style="left:240.0px;top:48.0px;transform:rotate(0deg)"><span class="m">F2</span></div><div class="key" style="left:264.0px;top:50.88px;transform:rotate(0deg)"><span class="m">F3</span></div><div class="key" style="left:288.0px;top:56.88px;transform:rotate(0deg)"><span class="m">F10</span></div><div class="key" style="left:0.0px;top:80.88px;transform:rotate(0deg)"><span class="m">BT</span><span class="s">全解除</span></div><div class="key" style="left:24.0px;top:74.88px;transform:rotate(0deg)"><span class="m">BT</span><span class="s">解除</span></div><div class="key" style="left:48.0px;top:72.0px;transform:rotate(0deg)"><span class="m small">USB/BT</span></div><div class="key empty" style="left:78.0px;top:80.88px;transform:rotate(0deg)"><span class="m"></span></div><div class="key empty" style="left:104.88px;top:84.0px;transform:rotate(10deg)"><span class="m"></span></div><div class="key held" style="left:132.0px;top:92.88px;transform:rotate(20deg)"><span class="m"></span></div><div class="key empty" style="left:156.0px;top:92.88px;transform:rotate(-20deg)"><span class="m"></span></div><div class="key empty" style="left:183.12px;top:84.0px;transform:rotate(-10deg)"><span class="m"></span></div><div class="key empty" style="left:288.0px;top:80.88px;transform:rotate(0deg)"><span class="m"></span></div><div class="ball" style="left:216.0px;top:79.19999999999999px"></div></div></section></body></html>
